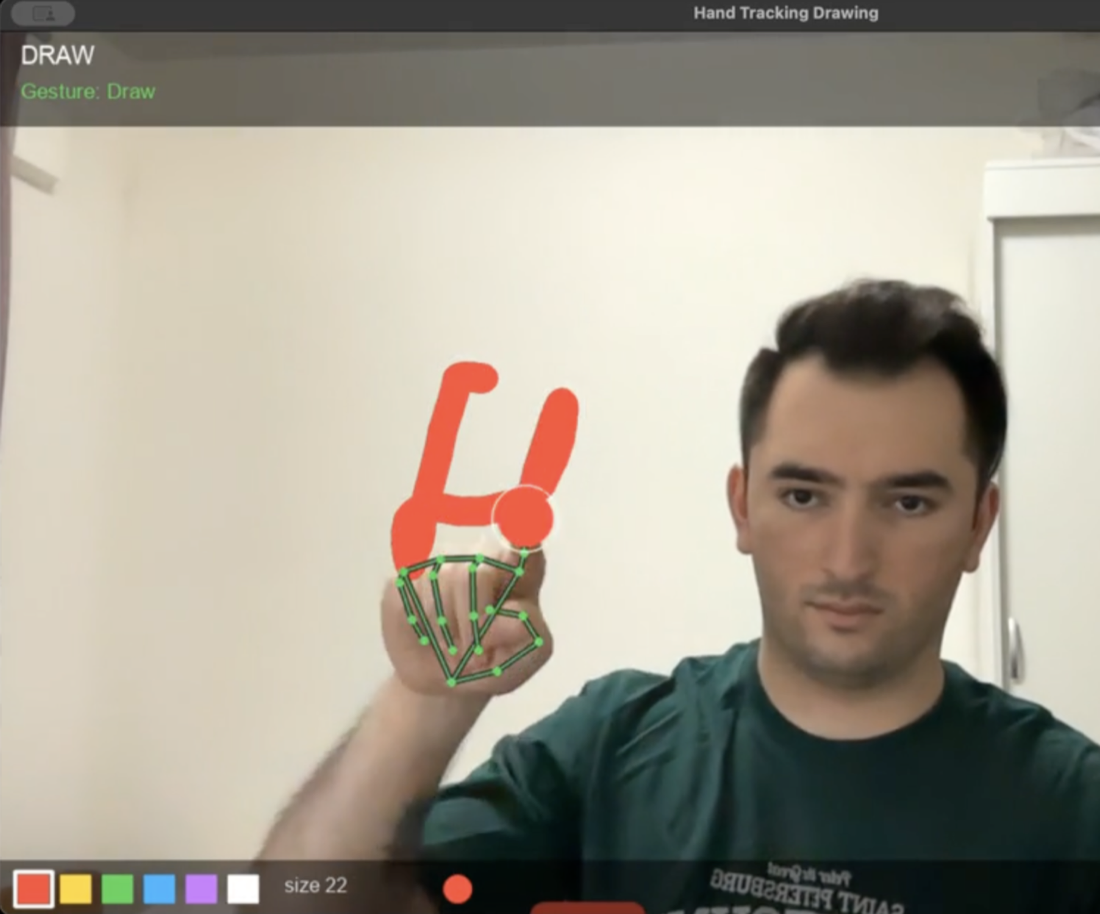
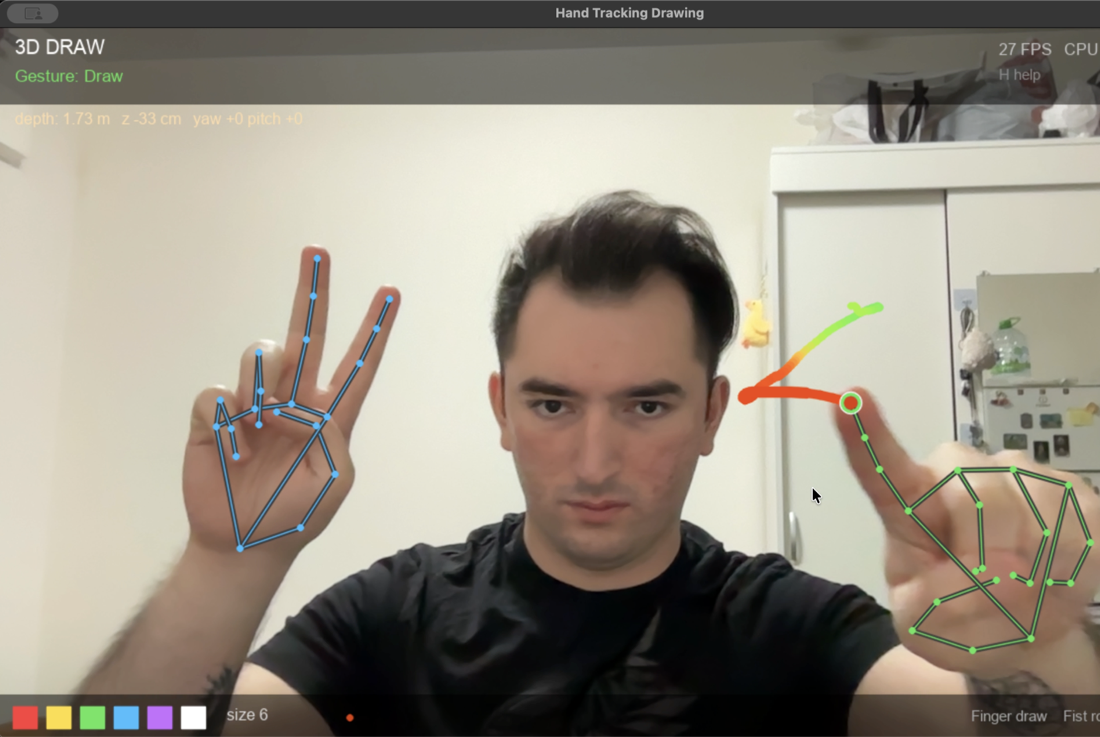
added examples of yolo-depth for hand-draw project

diff --git a/assets/css/styles.css b/assets/css/styles.css
@@ -672,6 +672,27 @@ html[lang="ru"] .nav-skills-en {
   object-fit: contain;
 }
 
+/* One image on top (full width) + two below; total height matches sibling cards */
+.project-panel__shots--stack .project-panel__shot {
+  height: 70px;
+}
+.project-panel__shots--stack .project-panel__shot:first-child {
+  width: 100%;
+}
+.project-panel__shots--stack .project-panel__shot:not(:first-child) {
+  width: calc(50% - 0.25rem);
+}
+
+/* Slightly taller single-shot cell (opt-in per card) */
+.project-panel__shots--tall .project-panel__shot {
+  height: 150px;
+}
+
+/* Slightly taller stacked cell (opt-in, e.g. RU card with longer title) */
+.project-panel__shots--stack-lg .project-panel__shot {
+  height: 80px;
+}
+
 .project-shot-preview {
   position: fixed;
   z-index: 2000;

diff --git a/index.html b/index.html
@@ -41,7 +41,7 @@
 
   <link rel="icon" href="assets/img/favicon-32.png" sizes="32x32" type="image/png">
   <link rel="apple-touch-icon" href="assets/img/apple-touch-icon.png">
-  <link rel="stylesheet" href="assets/css/styles.css?v=27">
+  <link rel="stylesheet" href="assets/css/styles.css?v=31">
 
   <script type="application/ld+json">
   {
@@ -273,7 +273,7 @@
     </div>
   </footer>
 
-  <script src="assets/js/app.js?v=33" defer></script>
+  <script src="assets/js/app.js?v=37" defer></script>
 </body>
 
 </html>

diff --git a/assets/js/app.js b/assets/js/app.js
@@ -76,7 +76,7 @@
     }
   };
 
-  var CONTENT_VERSION = '33';
+  var CONTENT_VERSION = '37';
 
   function getContentPath() {
     var base = currentLang === 'ru' ? 'content/ru.md' : 'content/en.md';

diff --git a/content/ru.md b/content/ru.md
@@ -17,12 +17,12 @@
 <div class="project-panel__shots project-panel__shots--x3"><a href="https://github.com/MathematicLove/tram-dynamic-roi-tracker" class="project-panel__shot" aria-label="Детекция объектов на динамическом RoI - ночной пример"><img src="content/projects/OBJECT_DETECTION_ON_DYNAMIC_ROI/EXAMPLE_NIGHT.png" alt="Детекция объектов на динамическом RoI - ночной пример"></a><a href="https://github.com/MathematicLove/tram-dynamic-roi-tracker" class="project-panel__shot" aria-label="Детекция объектов на динамическом RoI - пример трекинга"><img src="content/projects/OBJECT_DETECTION_ON_DYNAMIC_ROI/EXAMPLE_TRACKING.png" alt="Детекция объектов на динамическом RoI - пример трекинга"></a><a href="https://github.com/MathematicLove/tram-dynamic-roi-tracker" class="project-panel__shot" aria-label="Детекция объектов на динамическом RoI - пример трекинга"><img src="content/projects/OBJECT_DETECTION_ON_DYNAMIC_ROI/EXAMPLE_TRACKING.jpg" alt="Детекция объектов на динамическом RoI - пример трекинга"></a></div>
 </article>
 <article class="project-panel">
-<h4 class="project-panel__title"><a href="https://github.com/MathematicLove/hand-tracking-drawing" data-counter="project-hand-tracking-clicks">Рисование жестами руки</a></h4>
-<div class="project-panel__shots project-panel__shots--x2 project-panel__shots--fit"><a href="https://github.com/MathematicLove/hand-tracking-drawing" class="project-panel__shot" aria-label="Рисование жестами руки - пример 1"><img src="content/projects/HAND_TRACKING_DRAWING/HAND_TRACK_EXAMPLE_1.png" alt="Рисование жестами руки - пример 1"></a><a href="https://github.com/MathematicLove/hand-tracking-drawing" class="project-panel__shot" aria-label="Рисование жестами руки - пример 2"><img src="content/projects/HAND_TRACKING_DRAWING/HAND_TRACK_EXAMPLE_2.png" alt="Рисование жестами руки - пример 2"></a></div>
+<h4 class="project-panel__title"><a href="https://github.com/MathematicLove/hand-tracking-drawing" data-counter="project-hand-tracking-clicks">Рисование жестами руки (с 3D)</a></h4>
+<div class="project-panel__shots project-panel__shots--stack project-panel__shots--stack-lg"><a href="https://github.com/MathematicLove/hand-tracking-drawing" class="project-panel__shot" aria-label="Рисование жестами руки - пример 1"><img src="content/projects/HAND_TRACKING_DRAWING/HAND_TRACK_EXAMPLE_2.png" alt="Рисование жестами руки - пример 1"></a><a href="https://github.com/MathematicLove/hand-tracking-drawing" class="project-panel__shot" aria-label="Рисование жестами руки - пример 2"><img src="content/projects/HAND_TRACKING_DRAWING/HAND_TRACK_EXAMPLE_3.png" alt="Рисование жестами руки - пример 2"></a><a href="https://github.com/MathematicLove/hand-tracking-drawing" class="project-panel__shot" aria-label="Рисование жестами руки - пример 3"><img src="content/projects/HAND_TRACKING_DRAWING/HAND_TRACK_EXAMPLE_1.png" alt="Рисование жестами руки - пример 3"></a></div>
 </article>
 <article class="project-panel">
 <h4 class="project-panel__title"><a href="https://github.com/MathematicLove/fashion-recommendation" data-counter="project-fashion-recommender-clicks">Рекомендательная система по выбору одежды</a></h4>
-<div class="project-panel__shots project-panel__shots--x1"><a href="https://github.com/MathematicLove/fashion-recommendation" class="project-panel__shot" aria-label="Рекомендательная система по выбору одежды - пример"><img src="content/projects/FASHION_RECOMMENDER/FASHON_RECOMMENDER.png" alt="Рекомендательная система по выбору одежды - пример"></a></div>
+<div class="project-panel__shots project-panel__shots--x1 project-panel__shots--tall"><a href="https://github.com/MathematicLove/fashion-recommendation" class="project-panel__shot" aria-label="Рекомендательная система по выбору одежды - пример"><img src="content/projects/FASHION_RECOMMENDER/FASHON_RECOMMENDER.png" alt="Рекомендательная система по выбору одежды - пример"></a></div>
 </article>
 <article class="project-panel">
 <h4 class="project-panel__title"><a href="https://github.com/MathematicLove/heart-disease" data-counter="project-heart-disease-clicks">Классификация сердечного заболевания</a></h4>

diff --git a/content/en.md b/content/en.md
@@ -17,12 +17,12 @@
 <div class="project-panel__shots project-panel__shots--x3"><a href="https://github.com/MathematicLove/tram-dynamic-roi-tracker" class="project-panel__shot" aria-label="Object Detection on Dynamic RoI - night example"><img src="content/projects/OBJECT_DETECTION_ON_DYNAMIC_ROI/EXAMPLE_NIGHT.png" alt="Object Detection on Dynamic RoI - night example"></a><a href="https://github.com/MathematicLove/tram-dynamic-roi-tracker" class="project-panel__shot" aria-label="Object Detection on Dynamic RoI - tracking example"><img src="content/projects/OBJECT_DETECTION_ON_DYNAMIC_ROI/EXAMPLE_TRACKING.png" alt="Object Detection on Dynamic RoI - tracking example"></a><a href="https://github.com/MathematicLove/tram-dynamic-roi-tracker" class="project-panel__shot" aria-label="Object Detection on Dynamic RoI - tracking example"><img src="content/projects/OBJECT_DETECTION_ON_DYNAMIC_ROI/EXAMPLE_TRACKING.jpg" alt="Object Detection on Dynamic RoI - tracking example"></a></div>
 </article>
 <article class="project-panel">
-<h4 class="project-panel__title"><a href="https://github.com/MathematicLove/hand-tracking-drawing" data-counter="project-hand-tracking-clicks">Hand Tracking Drawing</a></h4>
-<div class="project-panel__shots project-panel__shots--x2 project-panel__shots--fit"><a href="https://github.com/MathematicLove/hand-tracking-drawing" class="project-panel__shot" aria-label="Hand Tracking Drawing - example 1"><img src="content/projects/HAND_TRACKING_DRAWING/HAND_TRACK_EXAMPLE_1.png" alt="Hand Tracking Drawing - example 1"></a><a href="https://github.com/MathematicLove/hand-tracking-drawing" class="project-panel__shot" aria-label="Hand Tracking Drawing - example 2"><img src="content/projects/HAND_TRACKING_DRAWING/HAND_TRACK_EXAMPLE_2.png" alt="Hand Tracking Drawing - example 2"></a></div>
+<h4 class="project-panel__title"><a href="https://github.com/MathematicLove/hand-tracking-drawing" data-counter="project-hand-tracking-clicks">Hand Tracking Drawing (with 3D)</a></h4>
+<div class="project-panel__shots project-panel__shots--stack"><a href="https://github.com/MathematicLove/hand-tracking-drawing" class="project-panel__shot" aria-label="Hand Tracking Drawing - example 1"><img src="content/projects/HAND_TRACKING_DRAWING/HAND_TRACK_EXAMPLE_2.png" alt="Hand Tracking Drawing - example 1"></a><a href="https://github.com/MathematicLove/hand-tracking-drawing" class="project-panel__shot" aria-label="Hand Tracking Drawing - example 2"><img src="content/projects/HAND_TRACKING_DRAWING/HAND_TRACK_EXAMPLE_3.png" alt="Hand Tracking Drawing - example 2"></a><a href="https://github.com/MathematicLove/hand-tracking-drawing" class="project-panel__shot" aria-label="Hand Tracking Drawing - example 3"><img src="content/projects/HAND_TRACKING_DRAWING/HAND_TRACK_EXAMPLE_1.png" alt="Hand Tracking Drawing - example 3"></a></div>
 </article>
 <article class="project-panel">
 <h4 class="project-panel__title"><a href="https://github.com/MathematicLove/fashion-recommendation" data-counter="project-fashion-recommender-clicks">Vision Fashion Recommender</a></h4>
-<div class="project-panel__shots project-panel__shots--x1"><a href="https://github.com/MathematicLove/fashion-recommendation" class="project-panel__shot" aria-label="Vision Fashion Recommender - example"><img src="content/projects/FASHION_RECOMMENDER/FASHON_RECOMMENDER.png" alt="Vision Fashion Recommender - example"></a></div>
+<div class="project-panel__shots project-panel__shots--x1 project-panel__shots--tall"><a href="https://github.com/MathematicLove/fashion-recommendation" class="project-panel__shot" aria-label="Vision Fashion Recommender - example"><img src="content/projects/FASHION_RECOMMENDER/FASHON_RECOMMENDER.png" alt="Vision Fashion Recommender - example"></a></div>
 </article>
 <article class="project-panel">
 <h4 class="project-panel__title"><a href="https://github.com/MathematicLove/heart-disease" data-counter="project-heart-disease-clicks">Heart Disease Classifier</a></h4>
